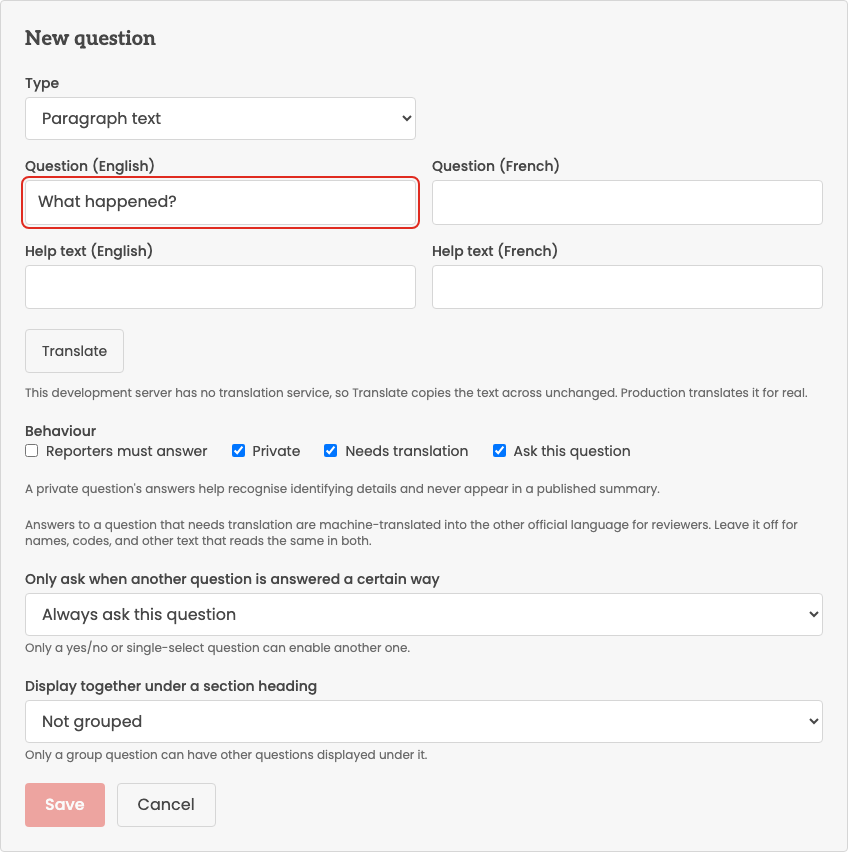
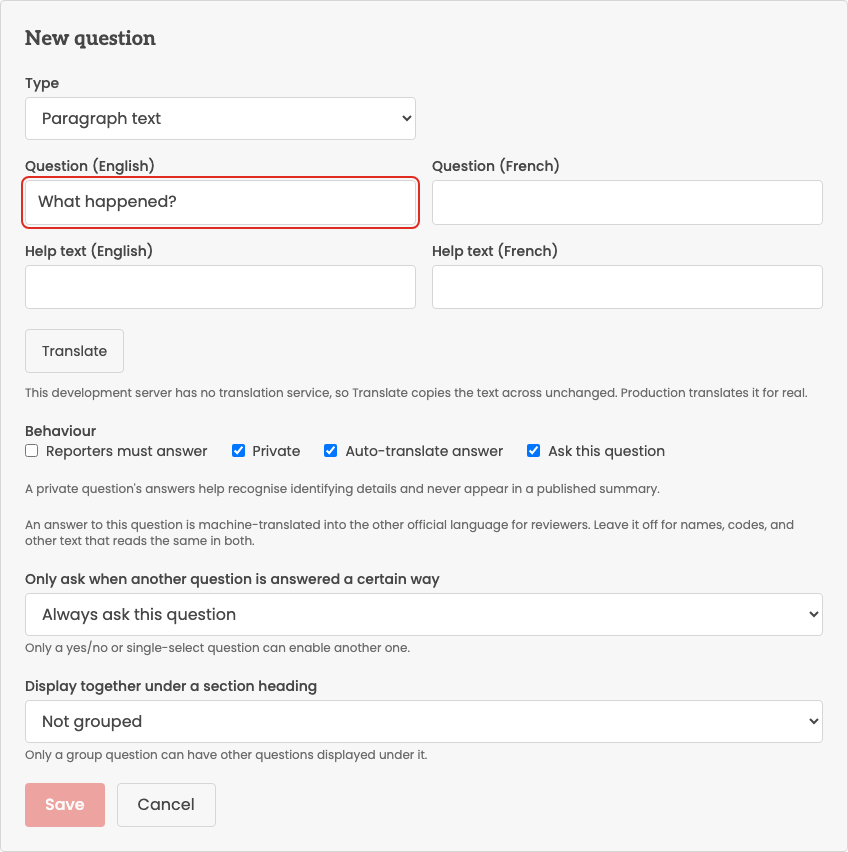
Label the editor checkbox "Auto-translate answer"

Changed region(s): [[0.0307, 0.6103, 0.9505, 0.6408], [0.3986, 0.5188, 0.7972, 0.5493]]

diff --git a/tests/e2e/steps/manage-questions.steps.ts b/tests/e2e/steps/manage-questions.steps.ts
@@ -731,9 +731,9 @@ Then("the corrected wording is shown on the question", async ({ page }) => {
 	await expect(choice).not.toContainText("Waiting for")
 })
 
-// REQ-QB-111: Needs translation is offered only for free text (ADR-0110).
+// REQ-QB-111: Auto-translate answer is offered only for free text (ADR-0110).
 
-const needsTranslation = (page: Page) => page.getByRole("checkbox", { name: "Needs translation" })
+const needsTranslation = (page: Page) => page.getByRole("checkbox", { name: "Auto-translate answer" })
 
 When("they choose long text", async ({ page }) => {
 	await page.getByLabel("Type").selectOption("long_text")
@@ -747,15 +747,15 @@ When("they choose email", async ({ page }) => {
 	await page.getByLabel("Type").selectOption("email")
 })
 
-Then("Needs translation is offered and checked", async ({ page }) => {
+Then("Auto-translate answer is offered and checked", async ({ page }) => {
 	await expect(needsTranslation(page)).toBeChecked()
 })
 
-Then("Needs translation is offered and unchecked", async ({ page }) => {
+Then("Auto-translate answer is offered and unchecked", async ({ page }) => {
 	await expect(needsTranslation(page)).toBeVisible()
 	await expect(needsTranslation(page)).not.toBeChecked()
 })
 
-Then("Needs translation is not offered", async ({ page }) => {
+Then("Auto-translate answer is not offered", async ({ page }) => {
 	await expect(needsTranslation(page)).toHaveCount(0)
 })

diff --git a/docs/decisions/ADR-0110-only-answers-that-need-it-get-a-second-language.md b/docs/decisions/ADR-0110-only-answers-that-need-it-get-a-second-language.md
@@ -39,11 +39,11 @@ recorded on the answer at submission.** Each `report_answers` row carries a
 
 | Mode | Applies to | Second language |
 |---|---|---|
-| `machine` | long or short text whose revision is marked **needs translation**; a type-ahead value that names no choice written in both languages; a select value whose choice has one language only | The Worker, through `ITranslator`, as ADR-0080 describes (`auto`) |
+| `machine` | long or short text whose revision is marked **Auto-translate answer**; a type-ahead value that names no choice written in both languages; a select value whose choice has one language only | The Worker, through `ITranslator`, as ADR-0080 describes (`auto`) |
 | `choice` | a single-select, multi-select, or type-ahead value naming a choice written in both languages | That choice's other-language label, copied at submission (`choice`) |
 | `none` | everything else: text not marked, email, phone, date, time, number, yes/no, checkbox, file | None, ever |
 
-**Needs translation is a question-revision field**, like required and
+**Auto-translate answer is a question-revision field** (`is_translatable`), like required and
 private. The editor offers it only for long and short text. It defaults on
 for long text and off for short text, and marking any other type as needing
 translation is rejected. Changing it revises or, once the question has been

diff --git a/features/report-submission/README.md b/features/report-submission/README.md
@@ -101,7 +101,7 @@ its second language depends on its question:
 
 | Question | Second language |
 |---|---|
-| Long or short text marked **Needs translation** | The Worker, mechanically, via `ITranslator` |
+| Long or short text marked **Auto-translate answer** | The Worker, mechanically, via `ITranslator` |
 | Single-select, multi-select | The chosen choice's other label, copied here at submission (`choice`) |
 | Type-ahead | As a picker when it names a choice written in both languages; otherwise the Worker |
 | Text not marked, email, phone, date, time, number, yes/no, checkbox, file | None, ever |

diff --git a/docs/traceability.md b/docs/traceability.md
@@ -972,7 +972,7 @@ Whether a question needs translation is a revision field — *Reqnroll, Covered*
 
 ### REQ-QB-111
 
-The editor offers Needs translation only for free text — *playwright-bdd, Covered*
+The editor offers Auto-translate answer only for free text — *playwright-bdd, Covered*
 
 ## Claims: report-submission
 
